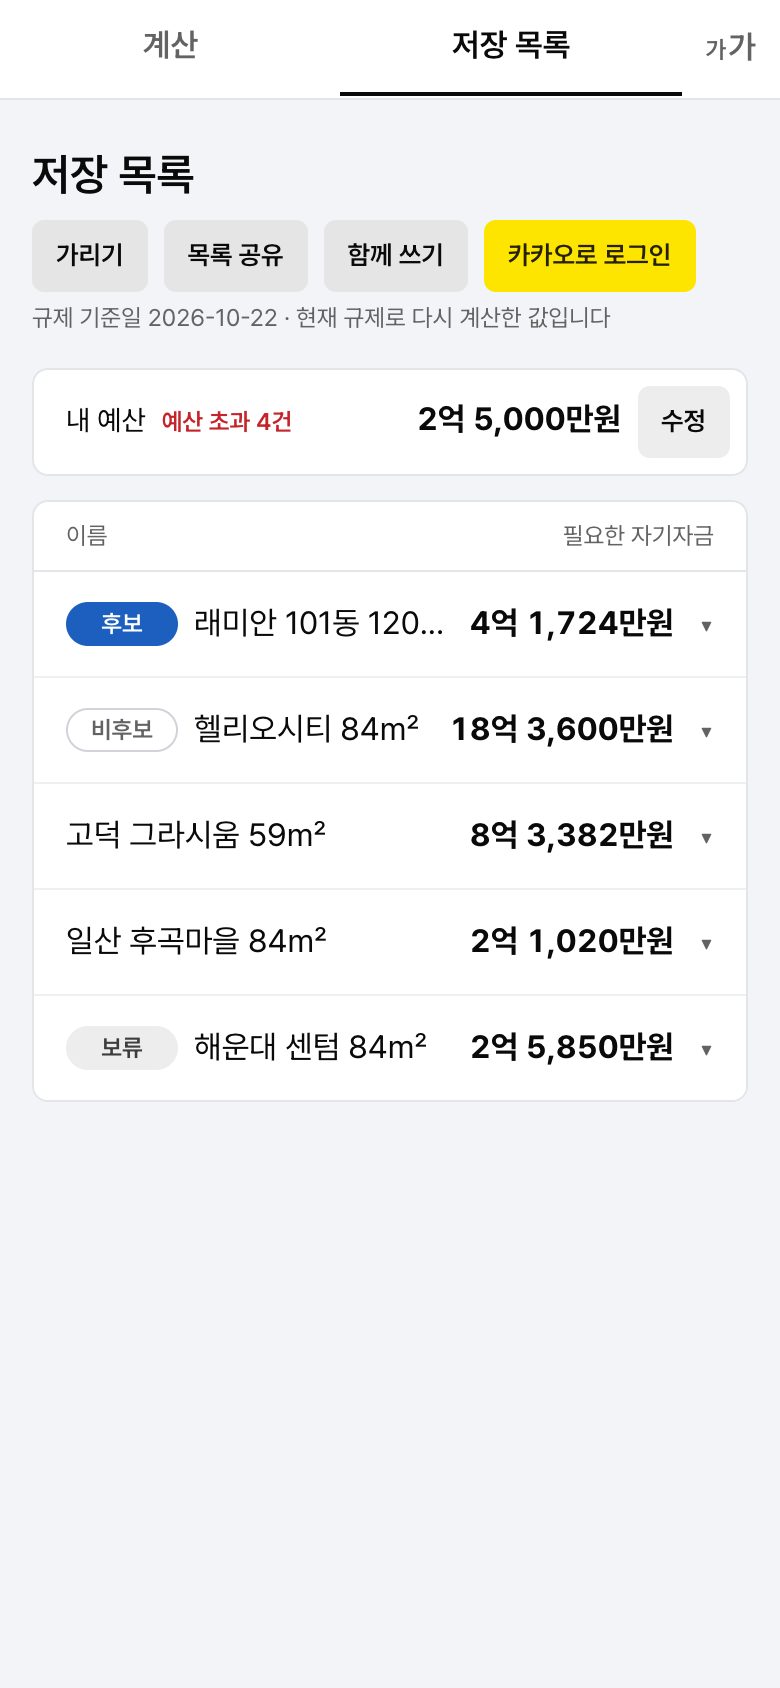
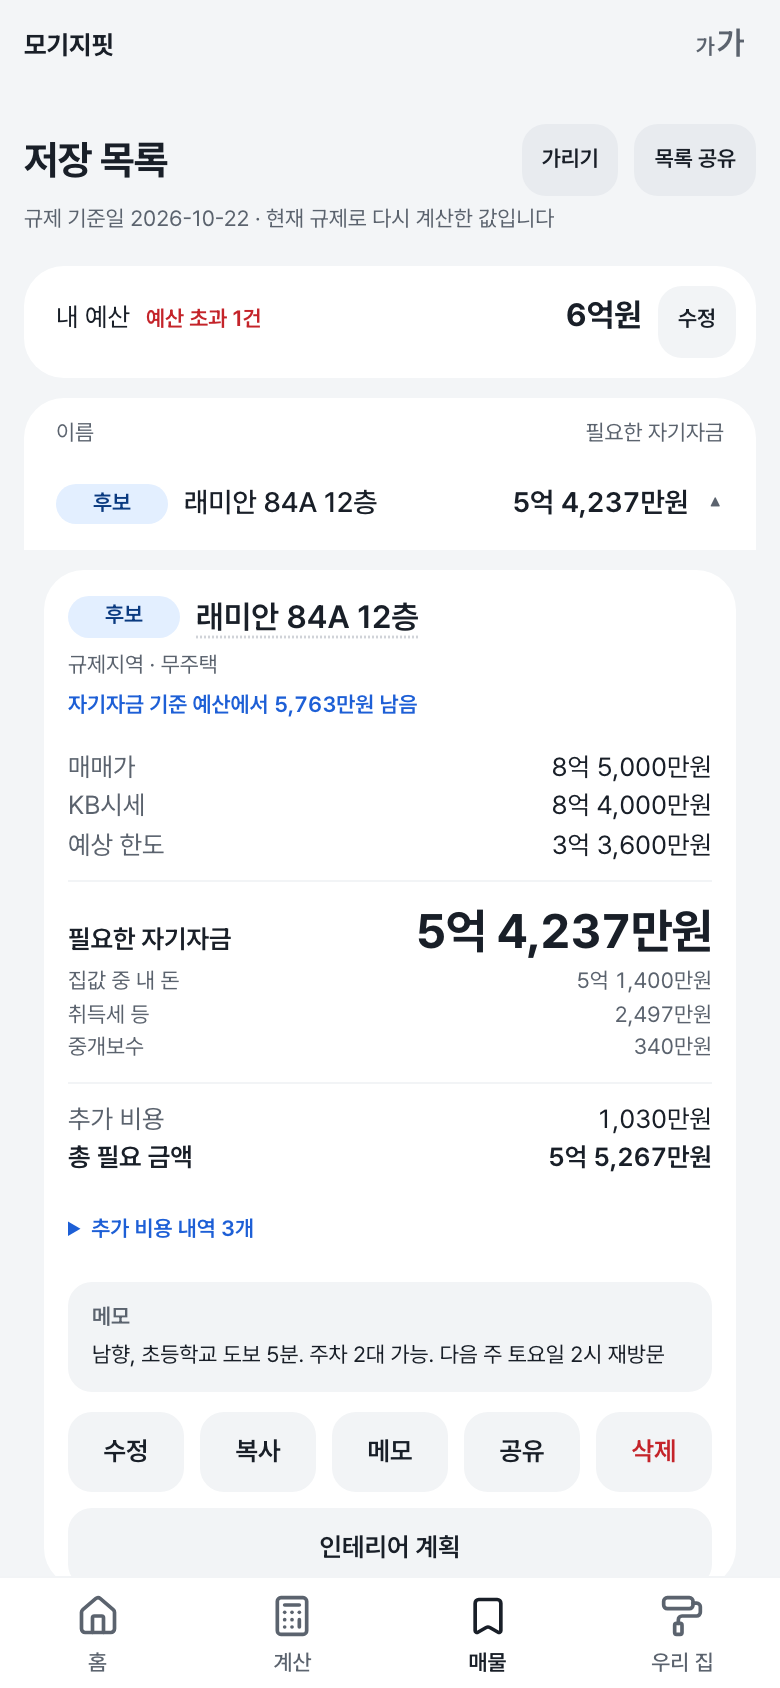
docs: README와 화면 사진을 대출·매물·인테리어 전체로 다시 구성 (#49)
- 핵심 화면 6장 재촬영: 홈, 대출 계산 결과, 매물 모으기, 실거래가, 우리 집 인테리어, 견적 표
- 기능 설명을 홈·대출 계산·매물 모으기·우리 집 인테리어·공통으로 재작성
- 개인정보·개발(API·D1) 설명을 현재 앱에 맞춤

diff --git a/README.md b/README.md
@@ -1,6 +1,10 @@
 # 모기지핏 (mortgage-fit)
 
-매매가와 KB시세를 넣으면 주택담보대출 예상 한도와 필요한 자기자금(취득세·중개보수 포함)을 계산해 주는 휴대폰용 웹앱입니다.
+집을 고르는 단계부터 인테리어까지 돈 계산을 한곳에서 하는 휴대폰용 웹앱입니다.
+
+- **대출 계산**: 매매가와 KB시세를 넣으면 주택담보대출 예상 한도와 필요한 자기자금(취득세·중개보수 포함)을 계산합니다.
+- **매물 모으기**: 계산한 매물을 저장해 놓고 내 예산과 비교하며 후보를 좁힙니다.
+- **우리 집 인테리어**: 계약한 집의 공정별 업체 견적을 모아 확정한 금액으로 예산을 관리합니다.
 
 운영 주소: <https://loan.conychoi.dev>
 
@@ -8,35 +12,60 @@
 
 <table>
   <tr>
-    <td align="center"><img src="docs/screenshots/01-calculator.png" width="240" alt="계산 화면: 매매가, KB시세, 기준 금액 입력" /><br />계산 입력</td>
-    <td align="center"><img src="docs/screenshots/02-result.png" width="240" alt="결과 카드의 필요한 자기자금과 추가 비용 입력(인테리어·가전·가구 등)" /><br />계산 결과·추가 비용</td>
-    <td align="center"><img src="docs/screenshots/03-listings.png" width="240" alt="저장 목록: 후보·보류·비후보 상태, 내 예산, 가리기·목록 공유·함께 쓰기 버튼" /><br />저장 목록</td>
+    <td align="center"><img src="docs/screenshots/01-home.png" width="240" alt="홈: 대출 계산·매물 모으기·우리 집 인테리어 요약과 카카오 로그인" /><br />홈</td>
+    <td align="center"><img src="docs/screenshots/02-calculator.png" width="240" alt="계산 결과: 예상 한도, 취득세·중개보수, 필요한 자기자금, 추가 비용과 총 필요 금액" /><br />대출 계산 결과</td>
+    <td align="center"><img src="docs/screenshots/03-listings.png" width="240" alt="매물 모으기: 내 예산과 비교한 저장 목록, 펼친 매물 카드의 자기자금 내역과 메모" /><br />매물 모으기</td>
   </tr>
   <tr>
-    <td align="center"><img src="docs/screenshots/04-compact.png" width="240" alt="줄을 눌러 펼친 매물 카드: 자기자금 내역, 추가 비용, 총 필요 금액, 메모" /><br />매물 카드</td>
-    <td align="center"><img src="docs/screenshots/05-trades.png" width="240" alt="실거래가 시트: 서울 강남구 단지명 검색 결과" /><br />실거래가</td>
-    <td align="center"><img src="docs/screenshots/06-screenshot-ocr.png" width="240" alt="스크린샷으로 채우기 미리보기" /><br />스크린샷으로 채우기</td>
+    <td align="center"><img src="docs/screenshots/04-trades.png" width="240" alt="실거래가 시트: 서울 강남구 래미안 검색 결과" /><br />실거래가</td>
+    <td align="center"><img src="docs/screenshots/05-interior.png" width="240" alt="우리 집 인테리어: 남은 예산·지출 예정 요약과 공정별 업체 견적 줄, 확정 체크" /><br />우리 집 인테리어</td>
+    <td align="center"><img src="docs/screenshots/06-interior-table.png" width="240" alt="우리 집 표 보기: 구분·업체·세부내용·견적 표와 CSV 내려받기·인쇄 버튼" /><br />인테리어 견적 표</td>
   </tr>
 </table>
 
-화면의 매물 이름과 금액은 예시입니다.
+화면의 매물 이름, 업체, 금액은 예시입니다.
 
 ## 주요 기능
 
+### 홈
+
+- 대출 계산(작성 중인 매매가), 매물 모으기(저장한 매물 수), 우리 집 인테리어(지출 예정·금액 미정 건수)를 한 화면에서 보고 바로 들어갑니다.
+- 카카오 로그인과 함께 쓰기도 홈에서 합니다.
+
+### 대출 계산
+
 - **한도·자기자금 계산**: 매매가, KB시세, 주택 소재지, 보유 상태, 전용 85㎡ 초과 여부를 넣으면 예상 한도와 필요한 자기자금을 바로 보여 줍니다.
 - **LTV 선택**: 40%·70%·80% 칩, 직접 입력, 규제대로 중에서 고릅니다. 사용자 지정 LTV를 쓰면 규제 기준 LTV를 함께 보여 줍니다.
-- **KB시세 확인 링크**: KB시세는 자동으로 가져오지 않습니다. 링크로 KB부동산을 열어 확인한 뒤 입력합니다.
-- **저장 목록**: 계산한 매물을 저장하면 한 줄씩 보이고, 줄을 누르면 상세 카드가 펼쳐집니다. 줄을 꾹 눌러 끌어 순서를 직접 정합니다. 저장된 매물은 현재 규제로 다시 계산해 보여 줍니다.
-- **상태·이름·메모**: 매물마다 후보·보류·비후보를 정하고, 카드 제목을 눌러 이름을 바로 바꾸고, 메모(5,000자)를 남깁니다. 긴 메모는 접어 둡니다.
 - **추가 비용**: 인테리어·가전·가구·이사·기타 비용을 줄 단위로 적으면 필요한 자기자금과 별도로 총 필요 금액을 보여 줍니다.
-- **내 예산**: 예산을 입력하면 필요한 자기자금이 예산을 넘는 매물에는 [초과]와 넘는 금액을 빨간색으로, 예산 안인 매물에는 남는 금액을 파란색으로 표시합니다.
-- **가리기·글자 크기**: [가리기]를 켜면 금액과 메모를 `•••`로 가립니다. 탭바의 [가가]로 글자 크기(기본·작게·더 작게)를 고릅니다.
-- **카카오 로그인·함께 쓰기**: 로그인하면 목록·예산·순서가 계정에 저장돼 어느 기기에서든 같습니다. 처음 로그인할 때 기기에 있던 목록을 계정으로 옮깁니다(기기 원본은 그대로). [함께 쓰기] 초대 링크로 두 계정이 한 목록을 같이 편집합니다.
-- **공유 링크**: 목록이나 매물 하나를 링크로 보내면 받은 사람이 값만 복사해 자기 목록에 추가합니다.
+- **KB시세 확인 링크**: KB시세는 자동으로 가져오지 않습니다. 링크로 KB부동산을 열어 확인한 뒤 입력합니다.
 - **스크린샷으로 채우기**: 네이버부동산 매물 상세 화면 캡처를 올리면 매매가, 단지명, 면적을 읽어 미리 보여 주고, [적용]을 눌러야 입력에 반영합니다.
 - **실거래가 보기**: 시군구와 단지명으로 국토교통부 아파트 매매 실거래가(최근 3개월)를 조회합니다. KB시세가 아니며 계산에 반영하지 않습니다.
 
-## 계산 방식
+### 매물 모으기
+
+- **저장 목록**: 계산한 매물을 저장하면 한 줄씩 보이고, 줄을 누르면 상세 카드가 펼쳐집니다. 줄을 꾹 눌러 끌어 순서를 직접 정합니다. 저장된 매물은 현재 규제로 다시 계산해 보여 줍니다.
+- **상태·이름·메모**: 매물마다 후보·보류·비후보를 정하고, 카드 제목을 눌러 이름을 바꾸고, 메모(5,000자)를 남깁니다.
+- **내 예산**: 예산을 넘는 매물에는 [초과]와 넘는 금액을 빨간색으로, 예산 안인 매물에는 남는 금액을 파란색으로 표시합니다.
+- **공유 링크**: 목록이나 매물 하나를 링크로 보내면 받은 사람이 값만 복사해 자기 목록에 추가합니다.
+- **인테리어 계획으로 이어 가기**: 매물 카드의 [인테리어 계획]으로 그 집의 인테리어 계획을 만듭니다.
+
+### 우리 집 인테리어
+
+턴키 없이 공정마다 업체에 따로 맡길 때 견적을 모아 예산을 짜는 화면입니다.
+
+- **공정별 견적 줄**: 구분(철거·도배·욕실 등), 세부내용, 업체, 견적(원), 비고를 한 줄로 적습니다. 같은 구분의 줄은 한 묶음으로 모여 업체 견적을 나란히 비교합니다.
+- **확정과 예산**: 고른 견적에 [확정]을 체크하면 확정한 금액만 지출 예정에 더해 총 예산과 남은 예산을 보여 줍니다.
+- **미정**: 업체나 금액을 아직 모르면 비워 둡니다. "업체 미정"·"미정"으로 표시하고, 금액 미정인 확정 줄은 지출 예정에서 빼고 건수만 알려 줍니다.
+- **순서 정하기**: 줄을 꾹 눌러 묶음 안에서 옮기고, 묶음 제목을 꾹 눌러 묶음을 통째로 옮깁니다. 표·CSV·인쇄도 같은 순서입니다.
+- **표 보기·내보내기**: 구분·업체·세부내용·견적·확정·비고 표로 보고, CSV로 내려받거나 인쇄·PDF로 저장합니다.
+
+### 공통
+
+- **카카오 로그인**: 로그인하면 저장 목록·예산·순서·인테리어 계획이 계정에 저장돼 어느 기기에서든 같습니다. 처음 로그인할 때 기기에 있던 데이터를 계정으로 옮깁니다(기기 원본은 그대로).
+- **함께 쓰기**: 초대 링크로 두 계정이 매물 목록과 인테리어 계획을 같이 편집합니다.
+- **가리기·글자 크기**: 저장 목록에서 [가리기]를 켜면 금액과 메모를 `•••`로 가립니다. 상단의 [가가]로 글자 크기(크게·기본·더 작게)를 고릅니다.
+
+## 대출 계산 방식
 
 금액은 만원 단위입니다.
 
@@ -60,15 +89,26 @@ LTV·한도 상한·세율·요율과 각 수치의 출처, 기준일은 결과 
 
 ## 개인정보
 
-- 로그인하지 않으면 저장 목록, 예산, 작성 중인 입력은 이 브라우저의 localStorage에만 저장하고 서버로 보내지 않습니다.
-- 카카오로 로그인하면 저장 목록·예산·순서를 서버(Cloudflare D1)에 저장합니다. 카카오에서는 회원번호만 받고 이름·이메일은 받지 않습니다. 작성 중인 입력은 계속 기기에만 둡니다.
+- 로그인하지 않으면 저장 목록, 예산, 인테리어 계획, 작성 중인 입력은 이 브라우저의 localStorage에만 저장하고 서버로 보내지 않습니다.
+- 카카오로 로그인하면 저장 목록·예산·순서·인테리어 계획을 서버(Cloudflare D1)에 저장합니다. 카카오에서는 회원번호만 받고 이름·이메일은 받지 않습니다. 작성 중인 입력은 계속 기기에만 둡니다.
 - 공유 링크를 만들면 그 매물 값(메모는 선택한 경우만)이 30일 동안 서버에 보관됩니다.
 - 스크린샷은 기기 안에서 글자를 읽고(tesseract.js) 어디에도 업로드하지 않습니다.
 - 실거래가 조회는 고른 시군구 코드와 단지명만 서버(`/api/apt-trades`)로 보냅니다.
 
 ## 개발
 
-Vite + React 클라이언트를 Cloudflare Workers Static Assets로 서비스하고, 같은 Worker가 `/api/apt-trades`(국토교통부 실거래가 프록시)를 처리합니다. 진입점은 `worker/index.ts`, API 로직은 `server/`에 있습니다.
+Vite + React 클라이언트를 Cloudflare Workers Static Assets로 서비스하고, 같은 Worker가 `/api/*`를 처리합니다. 진입점은 `worker/index.ts`, API 로직은 `server/`에 있습니다.
+
+| API                                                  | 내용                                   |
+| ---------------------------------------------------- | -------------------------------------- |
+| `/api/apt-trades`                                    | 국토교통부 아파트 매매 실거래가 프록시 |
+| `/api/auth/kakao/*`, `/api/auth/logout`, `/api/me`   | 카카오 로그인·세션                     |
+| `/api/listings`, `/api/listing-order`, `/api/budget` | 저장 목록·순서·예산(D1)                |
+| `/api/interior-plans`                                | 우리 집 인테리어 계획(D1)              |
+| `/api/household/*`                                   | 함께 쓰기 초대·수락·나가기             |
+| `/api/shares`                                        | 공유 링크(30일 보관)                   |
+
+D1 스키마는 `migrations/`에 있습니다.
 
 ### 로컬 실행
 
@@ -76,11 +116,11 @@ Vite + React 클라이언트를 Cloudflare Workers Static Assets로 서비스하
 - API 포함: 터미널 두 개를 씁니다.
   1. `pnpm dev:api` — `wrangler dev --port 8788`. 시작할 때 `wrangler.jsonc`의 `build.command`(`pnpm build`)로 `dist`를 만들고, `src/`가 바뀌면 다시 빌드합니다. 화면 작업은 Vite(터미널 2)로 봅니다.
   2. `pnpm dev`
-- 서비스키: 프로젝트 루트 `.dev.vars`에 `MOLIT_SERVICE_KEY=<공공데이터포털 Decoding 키>`를 둡니다(`.dev.vars.example` 참고, git 제외). `.env`와 함께 쓰지 않습니다. 키가 없으면 API는 503 `notConfigured`를 돌려줍니다.
+- 서비스키: 프로젝트 루트 `.dev.vars`에 `MOLIT_SERVICE_KEY=<공공데이터포털 Decoding 키>`를 둡니다(`.dev.vars.example` 참고, git 제외). `.env`와 함께 쓰지 않습니다. 키가 없으면 실거래가 API는 503 `notConfigured`를 돌려줍니다.
 
 ### 배포
 
-Workers Builds(GitHub 연결)가 `wrangler deploy`(비프로덕션 브랜치는 `wrangler versions upload`)를 실행하고, 이때 `build.command`가 먼저 돕니다. 시크릿 `MOLIT_SERVICE_KEY`는 Worker의 Settings → Variables and Secrets에 Secret으로 등록합니다.
+Workers Builds(GitHub 연결)가 `wrangler deploy`(비프로덕션 브랜치는 `wrangler versions upload`)를 실행하고, 이때 `build.command`가 먼저 돕니다. 시크릿은 Worker의 Settings → Variables and Secrets에 Secret으로 등록합니다.
 
 ### 검증
 
@@ -97,7 +137,7 @@ node scripts/probeUpstream.ts [LAWD_CD ...]        # 업스트림 원문 확인(
 
 ## 기술 스택
 
-- 클라이언트: React 19, TypeScript, Vite, TanStack Query, CSS Modules
+- 클라이언트: React 19, TypeScript, Vite, TanStack Query, CSS Modules, dnd-kit(끌어 옮기기)
 - 스크린샷 인식: tesseract.js(한국어 데이터, 브라우저 안에서 실행)
-- 서버: Cloudflare Workers(정적 자산 + 실거래가 API 프록시)
+- 서버: Cloudflare Workers(정적 자산 + API), Cloudflare D1
 - 테스트: Vitest, Testing Library

diff --git a/.cony/log.md b/.cony/log.md
@@ -722,3 +722,9 @@
 - AI(리드): cony 0.20.0 안내 반영 — 보드 "사용자 확인 필요"의 `none`·업체 미정 U1~U7·UI 개편 U1~U3를 정리. U4는 사용자 답(묶음도 옮기기)으로 PR #47에서 끝남, 나머지는 각 스펙 "다음 단계 후보"로 옮김. 이 세션은 대화가 커서 다음 작업은 새 세션 `/cony:team`으로 이어받는다(보드·log·스펙만 읽으면 됨)
 - 요청(사용자): 비고 링크는 "아 안 사라지네" — 버그 아님, 고칠 것 없음
 - AI(리드): 이어받을 백로그 보강(FAB 겹침, flaky handleHousehold.d1, 홈 이전 완료 안내, 묶음 놓은 뒤 포커스). `.cony` 변경은 main에 커밋 안 됨 — 다음 작업 브랜치 첫 커밋에 포함
+
+# README·화면 사진 종합 개편
+
+- 요청: "readme랑 내부 스샷도 업데이트해야지" / "부동산에만 readme와 스샷이 있었는데 인테리어까지 그냥 다 종합적으로 보여줄수있는 핵심 스샷들로 다시 꾸려줘야지? readme도 잘 다시 작성하고"
+- AI(리드): 운영 주소를 390×844 @2x(Chrome, playwright-core 스크래치 스크립트)로 예시 데이터(로그아웃 localStorage)를 넣어 찍음. 핵심 6장: 홈 · 대출 계산 결과 · 매물 모으기(펼친 카드) · 실거래가(강남구 래미안) · 우리 집 인테리어 · 인테리어 견적 표. 옛 6장(계산 입력·스크린샷 채우기 포함)은 지움
+- AI(리드): README를 홈 · 대출 계산 · 매물 모으기 · 우리 집 인테리어 · 공통으로 다시 씀. 개인정보에 인테리어 계획 저장, 개발에 API 목록·D1 추가. 글자 크기 이름을 크게·기본·더 작게로
